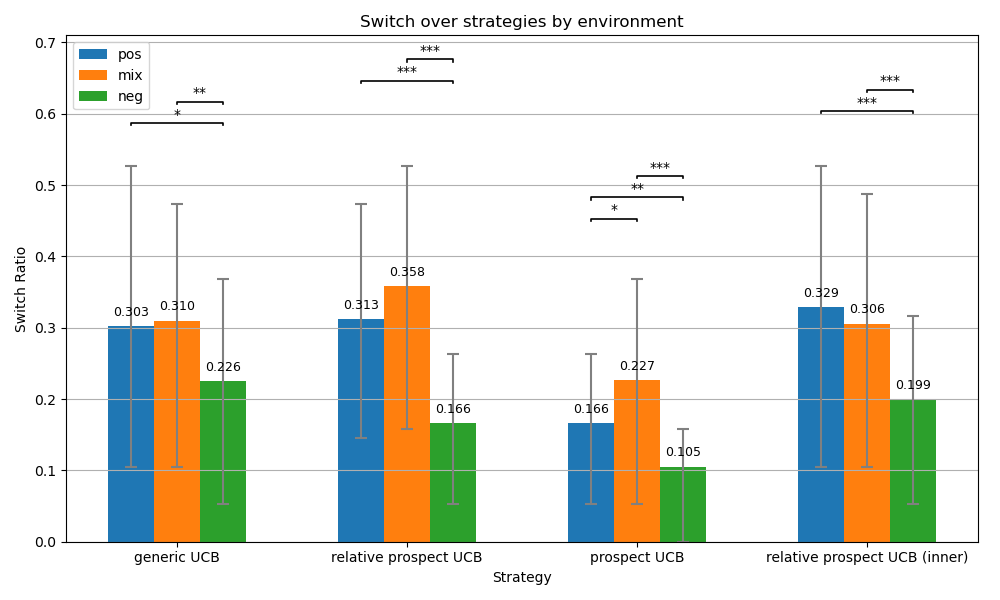
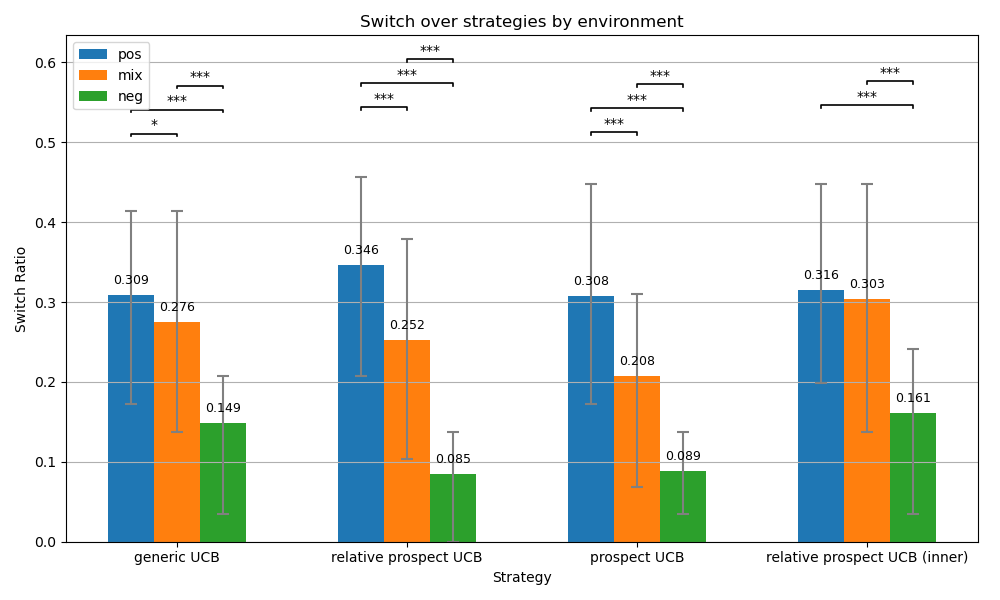
feat: assume a loss-averse agent and test on held-out envs

diff --git a/variable.py b/variable.py
@@ -3,34 +3,36 @@ import matplotlib.pyplot as plt
 
 variance = 10
 noise = 10
-horizon = 70
+horizon = 30
 num = 300
 mean = [50, 0, -50]
 expected_mean = [50, 0, -50]
 
 np.random.seed(42)
 mix_env = np.random.normal(mean[1], variance, 10 * num).reshape(num, 10)
-pos_env = mix_env + 50
-neg_env = mix_env - 50
+pos_env = np.random.normal(mean[0], variance, 10 * num).reshape(num, 10)
+neg_env = np.random.normal(mean[2], variance, 10 * num).reshape(num, 10)
 tot_env = [pos_env, mix_env, neg_env]
+test_env = [np.random.normal(mean[i], variance, 10 * num).reshape(num, 10) for i in range(3)]
 env_name = ['pos', 'mix', 'neg']
 
 strategy = ['generic UCB', 'relative prospect UCB', 'prospect UCB', 'relative prospect UCB (inner)']
 
 variables = ['alpha', 'beta', 'lambda', 'mean', 'noise']
 init = {'alpha' : 0.88, 'beta' : 1, 'lambda' : 2.25, 'mean' : 0, 'noise' : 10}
-variable_init = {'generic UCB' : {
-        'beta' : [-10, 10], 'noise' : [0.1, 20.0] 
+variable_init = {
+    'generic UCB' : {
+        'beta' : [0, 10], 'noise' : [0.1, 20.0] 
     },
     'relative prospect UCB' : { 
-        'alpha' : [0.1, 3.0], 'beta' : [-10, 10], 'lambda' : [1.0, 10.0], 'noise' : [0.1, 20.0]   
+        'beta' : [0, 10], 'noise' : [0.1, 20.0]   
     },
     'prospect UCB' : { 
-        'alpha' : [0.1, 3.0], 'beta' : [-10, 10], 'lambda' : [1.0, 10.0], 'noise' : [0.1, 20.0]   
+        'beta' : [0, 10], 'noise' : [0.1, 20.0]   
     },
     'relative prospect UCB (inner)' : { 
-        'alpha' : [0.1, 3.0], 'beta' : [-10, 10], 'lambda' : [1.0, 10.0], 'noise' : [0.1, 20.0]   
-    }
+        'beta' : [0, 10], 'noise' : [0.1, 20.0]   
+    },
 }
 
 ex = mix_env[0, :]

diff --git a/test.py b/test.py
@@ -4,7 +4,7 @@ import itertools
 import matplotlib.pyplot as plt
 from scipy.stats import ttest_ind
 
-from variable import variance, noise, horizon, num, mean, expected_mean, tot_env, env_name, strategy, variables, init
+from variable import variance, noise, horizon, num, mean, expected_mean, test_env, env_name, strategy, variables, init
 from function import prospect, select_arm, get_action, simulate
 
 with open("best_params.json", "r") as f:
@@ -32,7 +32,7 @@ for i in range(4):
                     variable.append(init[n])
 
             variable[3] = mean[e]
-            env_input = tot_env[e][t, :]
+            env_input = test_env[e][t, :]
             _, r, total, s = simulate(variable, i, env_input)
             result_r[e][i].append(np.cumsum(r))
             tot_r[e][i].append(total)
@@ -91,6 +91,7 @@ for e in range(3) :
 })
     plt.xlabel("Trial")
     plt.xticks([i for i in range(4)], strategy)
+    plt.yticks([100 * i for i in range(1, 6)])
     for i, val in enumerate(data):
         plt.text(i, val, f"{val:.3f}", ha='center', va='bottom', fontsize=10)
     plt.ylabel("Reward")

diff --git a/train.py b/train.py
@@ -40,8 +40,9 @@ for st, name in enumerate(strategy) :
 
         ret = 0
         for e in range(3) :
-            vari[3] = mean[e] # mean
-            ret += reward(vari, st, e)
+            vari[3] = mean[e]
+            ret += reward(vari, st, e) - mean[e] * horizon * num
+        
         return ret
 
     study = optuna.create_study(direction='maximize')
